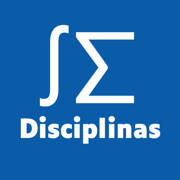
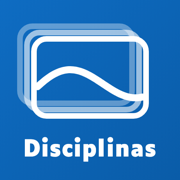
Disciplinas: ícones na identidade nova

diff --git a/disciplinas/index.html b/disciplinas/index.html
@@ -4,9 +4,9 @@
 <meta charset="utf-8">
 <meta name="viewport" content="width=device-width, initial-scale=1">
 <meta name="robots" content="noindex">
-<link rel="icon" href="../favicon.ico?v=2" sizes="16x16 32x32 48x48">
+<link rel="icon" href="../favicon.ico?v=3" sizes="16x16 32x32 48x48">
 <link rel="manifest" href="manifest.webmanifest">
-<link rel="apple-touch-icon" href="../icones/apple-touch-icon.png">
+<link rel="apple-touch-icon" href="../icones/apple-touch-icon.png?v=2">
 <meta name="apple-mobile-web-app-capable" content="yes">
 <meta name="mobile-web-app-capable" content="yes">
 <meta name="apple-mobile-web-app-title" content="Disciplinas">
@@ -1062,5 +1062,5 @@ l-30 -30 -860 0 c-854 0 -859 0 -886 21 -29 23 -33 58 -16 119 5 19 14 70 20
 </div></header>
 <div class="prefs"><label>Modo (M)<select data-pref="modo"></select></label><label>Cores (T)<select data-pref="cores"></select></label><label>Letra (L)<select data-pref="letra"></select></label><label>Tamanho (A)<select data-pref="tamanho"></select></label></div><div class="busca-entrada" data-grupos="Material,Conteúdo" data-fontes='[{"nome":"Cálculo I","raiz":"../calculo-i/"}]'></div>
 <section><h2 class="nivel">Ensino superior · Engenharias</h2><div class="grade"><article class="disc" style="--k:var(--define)"><h3><a href="../calculo-i/">Cálculo I</a></h3><p class="cursos">Engenharias Elétrica e Química · 2027/1 · 90 h</p><p class="desc">Limites, derivadas e integrais de uma variável, com a base retomada no momento do uso: aulas e exercícios com resolução passo a passo, revisão da base e demonstrações e desafios.</p><p class="nota">Material liberado ao longo do semestre</p><div class="acoes"><a class="aula c-EE" href="../calculo-i/?curso=EE" aria-label="Abrir o material de Cálculo I da Engenharia Elétrica">Elétrica</a><a class="aula c-EQ" href="../calculo-i/?curso=EQ" aria-label="Abrir o material de Cálculo I da Engenharia Química">Química</a></div></article><article class="disc" style="--k:var(--exemplo)"><h3>Equações Diferenciais</h3><p class="cursos">Engenharias</p><span class="estado">Em preparação</span></article></div></section><section><h2 class="nivel">Ensino técnico integrado · Química</h2><div class="grade"><article class="disc" style="--k:var(--suavez)"><h3>Estatística</h3><p class="cursos">Curso Técnico Integrado em Química</p><span class="estado">Em preparação</span></article></div></section>
-<footer>As escolhas de leitura (modo, cores, letra e tamanho) valem para todas as páginas deste site, neste navegador. Letras: Luciole © Laurent Bourcellier e Jonathan Perez, 2019 (CC BY 4.0); Luciole Math, Fira Sans, Fira Math, Fira Code e STIX Two (SIL Open Font License); licenças: <a href="../recursos/fontes/LICENSE-Luciole.txt">Luciole</a>, <a href="../recursos/fontes/OFL-LucioleMath.txt">Luciole Math</a>, <a href="../recursos/fontes/OFL-Fira.txt">Fira Sans</a>, <a href="../recursos/fontes/OFL-FiraMath.txt">Fira Math</a>, <a href="../recursos/fontes/OFL-FiraCode.txt">Fira Code</a>, <a href="../recursos/fontes/OFL-STIX.txt">STIX</a>. Marcas do IFSul e da Coordenadoria de Matemática pertencem às instituições.<span class="versao">Versão de 11/11/2026, 16:43</span></footer>
+<footer>As escolhas de leitura (modo, cores, letra e tamanho) valem para todas as páginas deste site, neste navegador. Letras: Luciole © Laurent Bourcellier e Jonathan Perez, 2019 (CC BY 4.0); Luciole Math, Fira Sans, Fira Math, Fira Code e STIX Two (SIL Open Font License); licenças: <a href="../recursos/fontes/LICENSE-Luciole.txt">Luciole</a>, <a href="../recursos/fontes/OFL-LucioleMath.txt">Luciole Math</a>, <a href="../recursos/fontes/OFL-Fira.txt">Fira Sans</a>, <a href="../recursos/fontes/OFL-FiraMath.txt">Fira Math</a>, <a href="../recursos/fontes/OFL-FiraCode.txt">Fira Code</a>, <a href="../recursos/fontes/OFL-STIX.txt">STIX</a>. Marcas do IFSul e da Coordenadoria de Matemática pertencem às instituições.<span class="versao">Versão de 12/11/2026, 10:49</span></footer>
 </main><script>Pref.ligar();document.addEventListener('keydown',Pref.tecla);</script></body></html>

diff --git a/icones/icone.html b/icones/icone.html
@@ -1,9 +1,7 @@
-<!-- Fonte do ícone da Tela de Início da página das disciplinas (10/11/2026). Gerar: Chrome sem janela, 512 x 512, captura em icone-512.png; sips -z 192 192 e 180 180 para os outros. -->
+<!-- Fonte do ícone da Tela de Início da página das disciplinas (12/11/2026, identidade nova): três cartões empilhados com uma curva e o nome, no azul em degradê. O celular arredonda os cantos sozinho: o arquivo sai quadrado e cheio. Gerar: Chrome sem janela, 512 x 512, captura em icone-512.png; sips -z 192 192 e 180 180 para os outros. -->
 <!doctype html><html><head><meta charset="utf-8"><style>
 @font-face{font-family:L;src:url(../recursos/fontes/Luciole-Bold.ttf)}
 @font-face{font-family:M;src:url(../recursos/fontes/Luciole-Math-Raiz.otf)}
-html,body{margin:0;width:512px;height:512px;overflow:hidden;background:#0A5CA8}
-.c{width:512px;height:512px;display:flex;flex-direction:column;align-items:center;justify-content:center;color:#fff}
-.i{font-family:M;font-size:200px;line-height:1;margin-top:-10px;letter-spacing:10px}
-.t{font-family:L;font-weight:700;font-size:72px;line-height:1;margin-top:44px;letter-spacing:-1px}
-</style></head><body><div class="c"><div class="i">∫∑</div><div class="t">Disciplinas</div></div></body></html>
+html,body{margin:0;width:512px;height:512px;overflow:hidden;background:#fff}
+svg{display:block}
+</style></head><body><svg viewBox="0 0 512 512" width="512" height="512"><defs><linearGradient id="g" x1="0" y1="0" x2="1" y2="1"><stop offset="0" stop-color="#0E6CC2"/><stop offset="1" stop-color="#0A5CA8"/></linearGradient></defs><rect width="512" height="512" rx="0" fill="url(#g)"/><rect x="56" y="74" width="320" height="220" rx="36" fill="none" stroke="#fff" stroke-opacity="0.35" stroke-width="16"/><rect x="76" y="92" width="320" height="220" rx="36" fill="none" stroke="#fff" stroke-opacity="0.6" stroke-width="16"/><rect x="96" y="110" width="320" height="220" rx="36" fill="none" stroke="#fff" stroke-opacity="1" stroke-width="16"/><path d="M106.4 246.5L110.1 243.1L113.9 239.7L117.6 236.5L121.4 233.3L125.1 230.2L128.8 227.2L132.6 224.4L136.3 221.6L140.1 219.0L143.8 216.5L147.5 214.2L151.3 212.0L155.0 209.9L158.8 208.1L162.5 206.3L166.2 204.7L170.0 203.3L173.7 202.1L177.5 201.0L181.2 200.1L184.9 199.3L188.7 198.7L192.4 198.3L196.2 198.1L199.9 198.0L203.6 198.2L207.4 198.4L211.1 198.9L214.9 199.4L218.6 200.2L222.3 201.1L226.1 202.1L229.8 203.3L233.6 204.7L237.3 206.1L241.0 207.7L244.8 209.4L248.5 211.2L252.3 213.1L256.0 215.1L259.7 217.2L263.5 219.4L267.2 221.7L271.0 224.0L274.7 226.3L278.4 228.8L282.2 231.2L285.9 233.7L289.7 236.2L293.4 238.7L297.1 241.2L300.9 243.6L304.6 246.1L308.4 248.5L312.1 250.9L315.8 253.3L319.6 255.6L323.3 257.8L327.1 259.9L330.8 262.0L334.5 264.0L338.3 265.9L342.0 267.6L345.8 269.3L349.5 270.8L353.2 272.2L357.0 273.5L360.7 274.6L364.5 275.6L368.2 276.5L371.9 277.1L375.7 277.7L379.4 278.0L383.2 278.2L386.9 278.3L390.6 278.2L394.4 277.9L398.1 277.4L401.9 276.7L405.6 275.9" fill="none" stroke="#fff" stroke-width="20" stroke-linecap="round"/><text x="256" y="446" text-anchor="middle" font-family="L" font-weight="700" font-size="64" fill="#fff" letter-spacing="1">Disciplinas</text></svg></body></html>

diff --git a/icones/icone-aba.html b/icones/icone-aba.html
@@ -1,7 +1,7 @@
-<!-- Fonte do ícone da aba do navegador (11/11/2026): só o símbolo, porque em 16 px o texto do ícone da Tela de Início vira borrão. Gerar: Chrome sem janela, 512 x 512, captura com fundo transparente; favicon.ico na raiz com 16, 32 e 48 px. -->
+<!-- Fonte do ícone da aba do navegador (12/11/2026, identidade nova): só o ∫∑, porque em 16 px o texto e a figura viram borrão. Gerar: Chrome sem janela, 512 x 512, captura com fundo transparente; favicon.ico com 16, 32 e 48 px (Pillow); o favicon.ico fica na raiz do site. -->
 <!doctype html><html><head><meta charset="utf-8"><style>
+@font-face{font-family:L;src:url(../recursos/fontes/Luciole-Bold.ttf)}
 @font-face{font-family:M;src:url(../recursos/fontes/Luciole-Math-Raiz.otf)}
 html,body{margin:0;width:512px;height:512px;overflow:hidden;background:transparent}
-.c{width:512px;height:512px;border-radius:96px;background:#0A5CA8;display:flex;align-items:center;justify-content:center;color:#fff}
-.i{font-family:M;font-size:300px;line-height:1;margin-top:-6px;letter-spacing:6px;-webkit-text-stroke:12px #fff}
-</style></head><body><div class="c"><div class="i">∫∑</div></div></body></html>
+svg{display:block}
+</style></head><body><svg viewBox="0 0 512 512" width="512" height="512"><defs><linearGradient id="g" x1="0" y1="0" x2="1" y2="1"><stop offset="0" stop-color="#0E6CC2"/><stop offset="1" stop-color="#0A5CA8"/></linearGradient></defs><rect width="512" height="512" rx="120" fill="url(#g)"/><text x="256" y="384" text-anchor="middle" font-family="M" font-size="340" fill="#fff" stroke="#fff" stroke-width="14" letter-spacing="-6">∫∑</text></svg></body></html>
